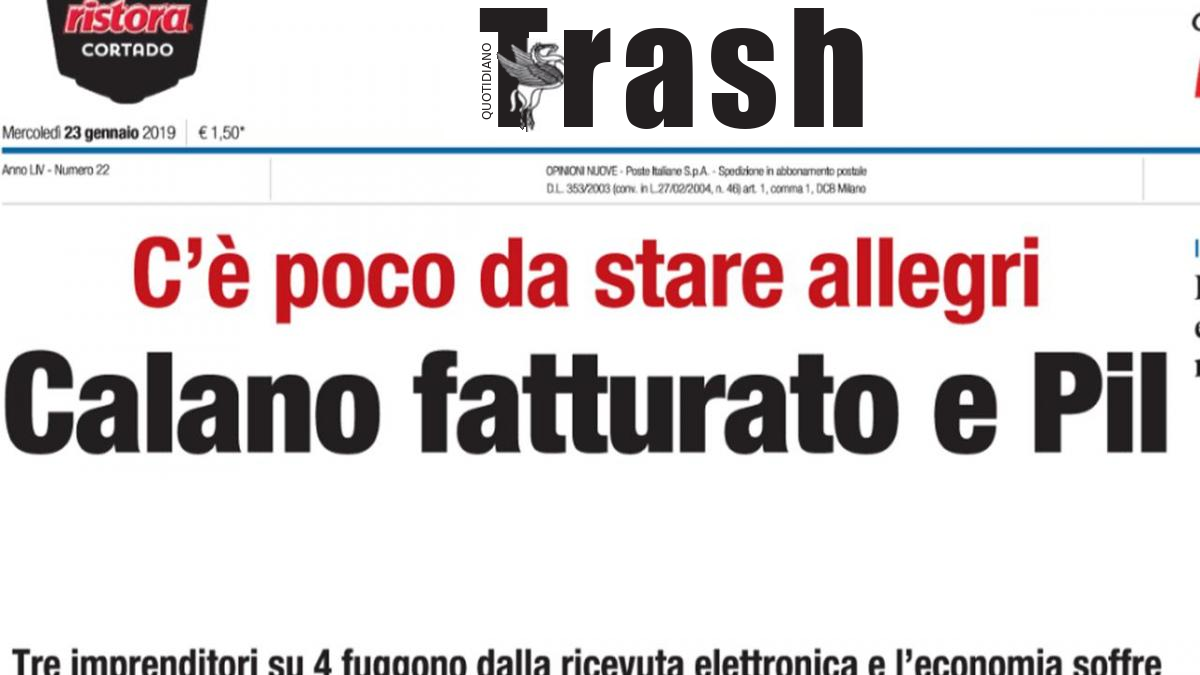
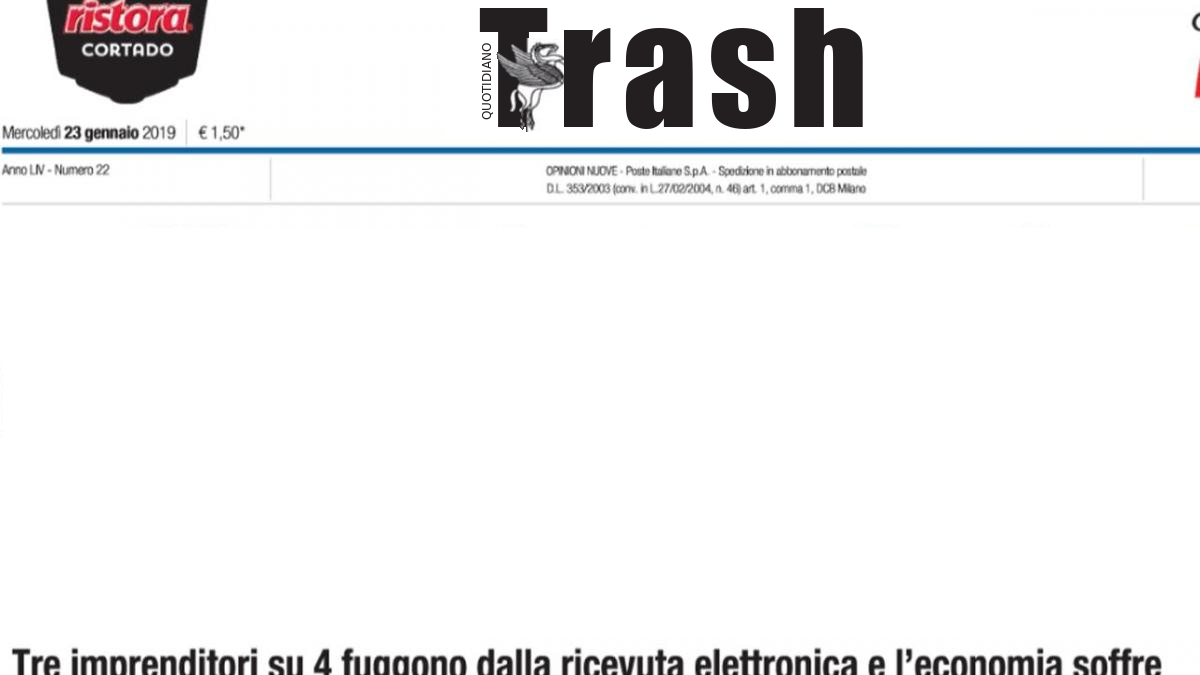
text is now more customizable

diff --git a/js/script.js b/js/script.js
@@ -7,19 +7,22 @@
     $scope.memes = { name:"TrashQuotidiano", url:"img/TrashQuotidiano.png" };
 
     $scope.disabled = undefined;
-    $scope.text = '';
-    $scope.font_size = 80;
+    $scope.pre_text = "C'è poco da stare allegri";
+    $scope.title1_text = "Calano fatturato e pil";
+    $scope.title2_text = "Ma aumentano i meme";
+
+    $scope.pre_font_size = 80;
+    $scope.title_font_size = 140;
 
     /* create canvas */
     let canvas = document.createElement("canvas");
     let ctx = canvas.getContext("2d");
-    let width = 1200, height = 675;
+    let width = 1200 * 0.8, height = 675 * 0.8;
 
     ctx.clearRect(0, 0, width, height);
     canvas.width = width;
     canvas.height = height;
-
-    ctx.scale(width/1200, height/675);
+    canvas.style = "display:block; margin: 0 auto";
 
     canvas.id = 'myCanvas';
     document.getElementsByClassName("canvas")[0].appendChild(canvas);
@@ -29,24 +32,26 @@
     	let ctx = document.getElementById("myCanvas").getContext("2d");
 
       let img = document.getElementById("current_image");
-    	ctx.drawImage(img, 0, 0, 1200, 675);
+    	ctx.drawImage(img, 0, 0, width, height);
 
-      $scope.drawText(ctx, $scope.text, 1200/2, 525);
+      $scope.drawText(ctx, $scope.pre_text, width/2, height/2.5, "rgb(192, 30, 37)", $scope.pre_font_size);
+      $scope.drawText(ctx, $scope.title1_text, width/2, height/1.7, "rgb(35, 31, 32)", $scope.title_font_size);
+      $scope.drawText(ctx, $scope.title2_text, width/2, height/1.2, "rgb(35, 31, 32)", $scope.title_font_size);
     };
 
     // load image on canvas
     let current_image = document.getElementById("current_image");
     current_image.onload = () => { $scope.addText(); };
 
-    $scope.drawText = (ctx, text, x, y) => {
-//    	text = text.toUpperCase();
-    	ctx.fillStyle = "#231f20";
+    $scope.drawText = (ctx, text, x, y, fillStyle, fontSize) => {
+    	ctx.fillStyle = fillStyle;
     	ctx.textAlign = "center";
-    	ctx.textBaseline = "middle";
+      ctx.textBaseline = "middle";
+      ctx.letterSpacing = "0.5em";
     	ctx.lineWidth = 1;
-    	ctx.strokeStyle = "#000";
+    	// ctx.strokeStyle = "#000";
 
-      ctx.font = $scope.font_size + "px URW Impact W01 Bold Condensed";
+      ctx.font = fontSize + "px URW Impact W01 Bold Condensed";
     	ctx.strokeText(text, x, y);
     	ctx.fillText(text, x, y);
     };

diff --git a/index.html b/index.html
@@ -41,15 +41,25 @@
 
 					<div class="col-xs-12">
 
-						<div class="canvas"></div>
+						<div class="canvas" style="width:100%"></div>
 
 						<div class="text-center">
 							<br>
-							Testo:
-							<input type="text" class="form-control" ng-model='text' ng-change="addText()" placeholder="text">
+							Pre-titolo:
+							<input type="text" class="form-control" ng-model='pre_text' ng-change="addText()" placeholder="C'è poco da stare allegri">
+
+							Titolo 1:
+							<input type="text" class="form-control" ng-model='title1_text' ng-change="addText()" placeholder="Calano fatturato e pil">
+							
+							Titolo 2:
+							<input type="text" class="form-control" ng-model='title2_text' ng-change="addText()" placeholder="Ma aumentano i meme">
+
 							Dimensione del font:
 							<br>
-							<input type="number" ng-model="font_size" ng-change="addText()">
+							Pre-titolo:
+							<input type="number" ng-model="pre_font_size" ng-change="addText()">
+							Titolo:
+							<input type="number" ng-model="title_font_size" ng-change="addText()">
 						</div>
 
 						<br>
@@ -58,7 +68,11 @@
 								<button class="btn btn-large btn-primary" ng-click="create()"><h4>Save Image</h4></button>
 							</div>
 							<div class="col-xs-3 col-xs-offset-3">
-								<footer>Coded by <a href="http://github.com/Helias/TrashQuotidiano">Helias</a></footer>
+								<footer style="text-align: center">
+									Coded by <a href="http://github.com/Helias/">Helias</a>, <a href="https://github.com/aegroto/">aegroto</a>
+									<br>
+									<a href="http://github.com/Helias/TrashQuotidian">Source code (GitHub)</a>
+								</footer>
 							</div>
 						</div>
 					</div>
